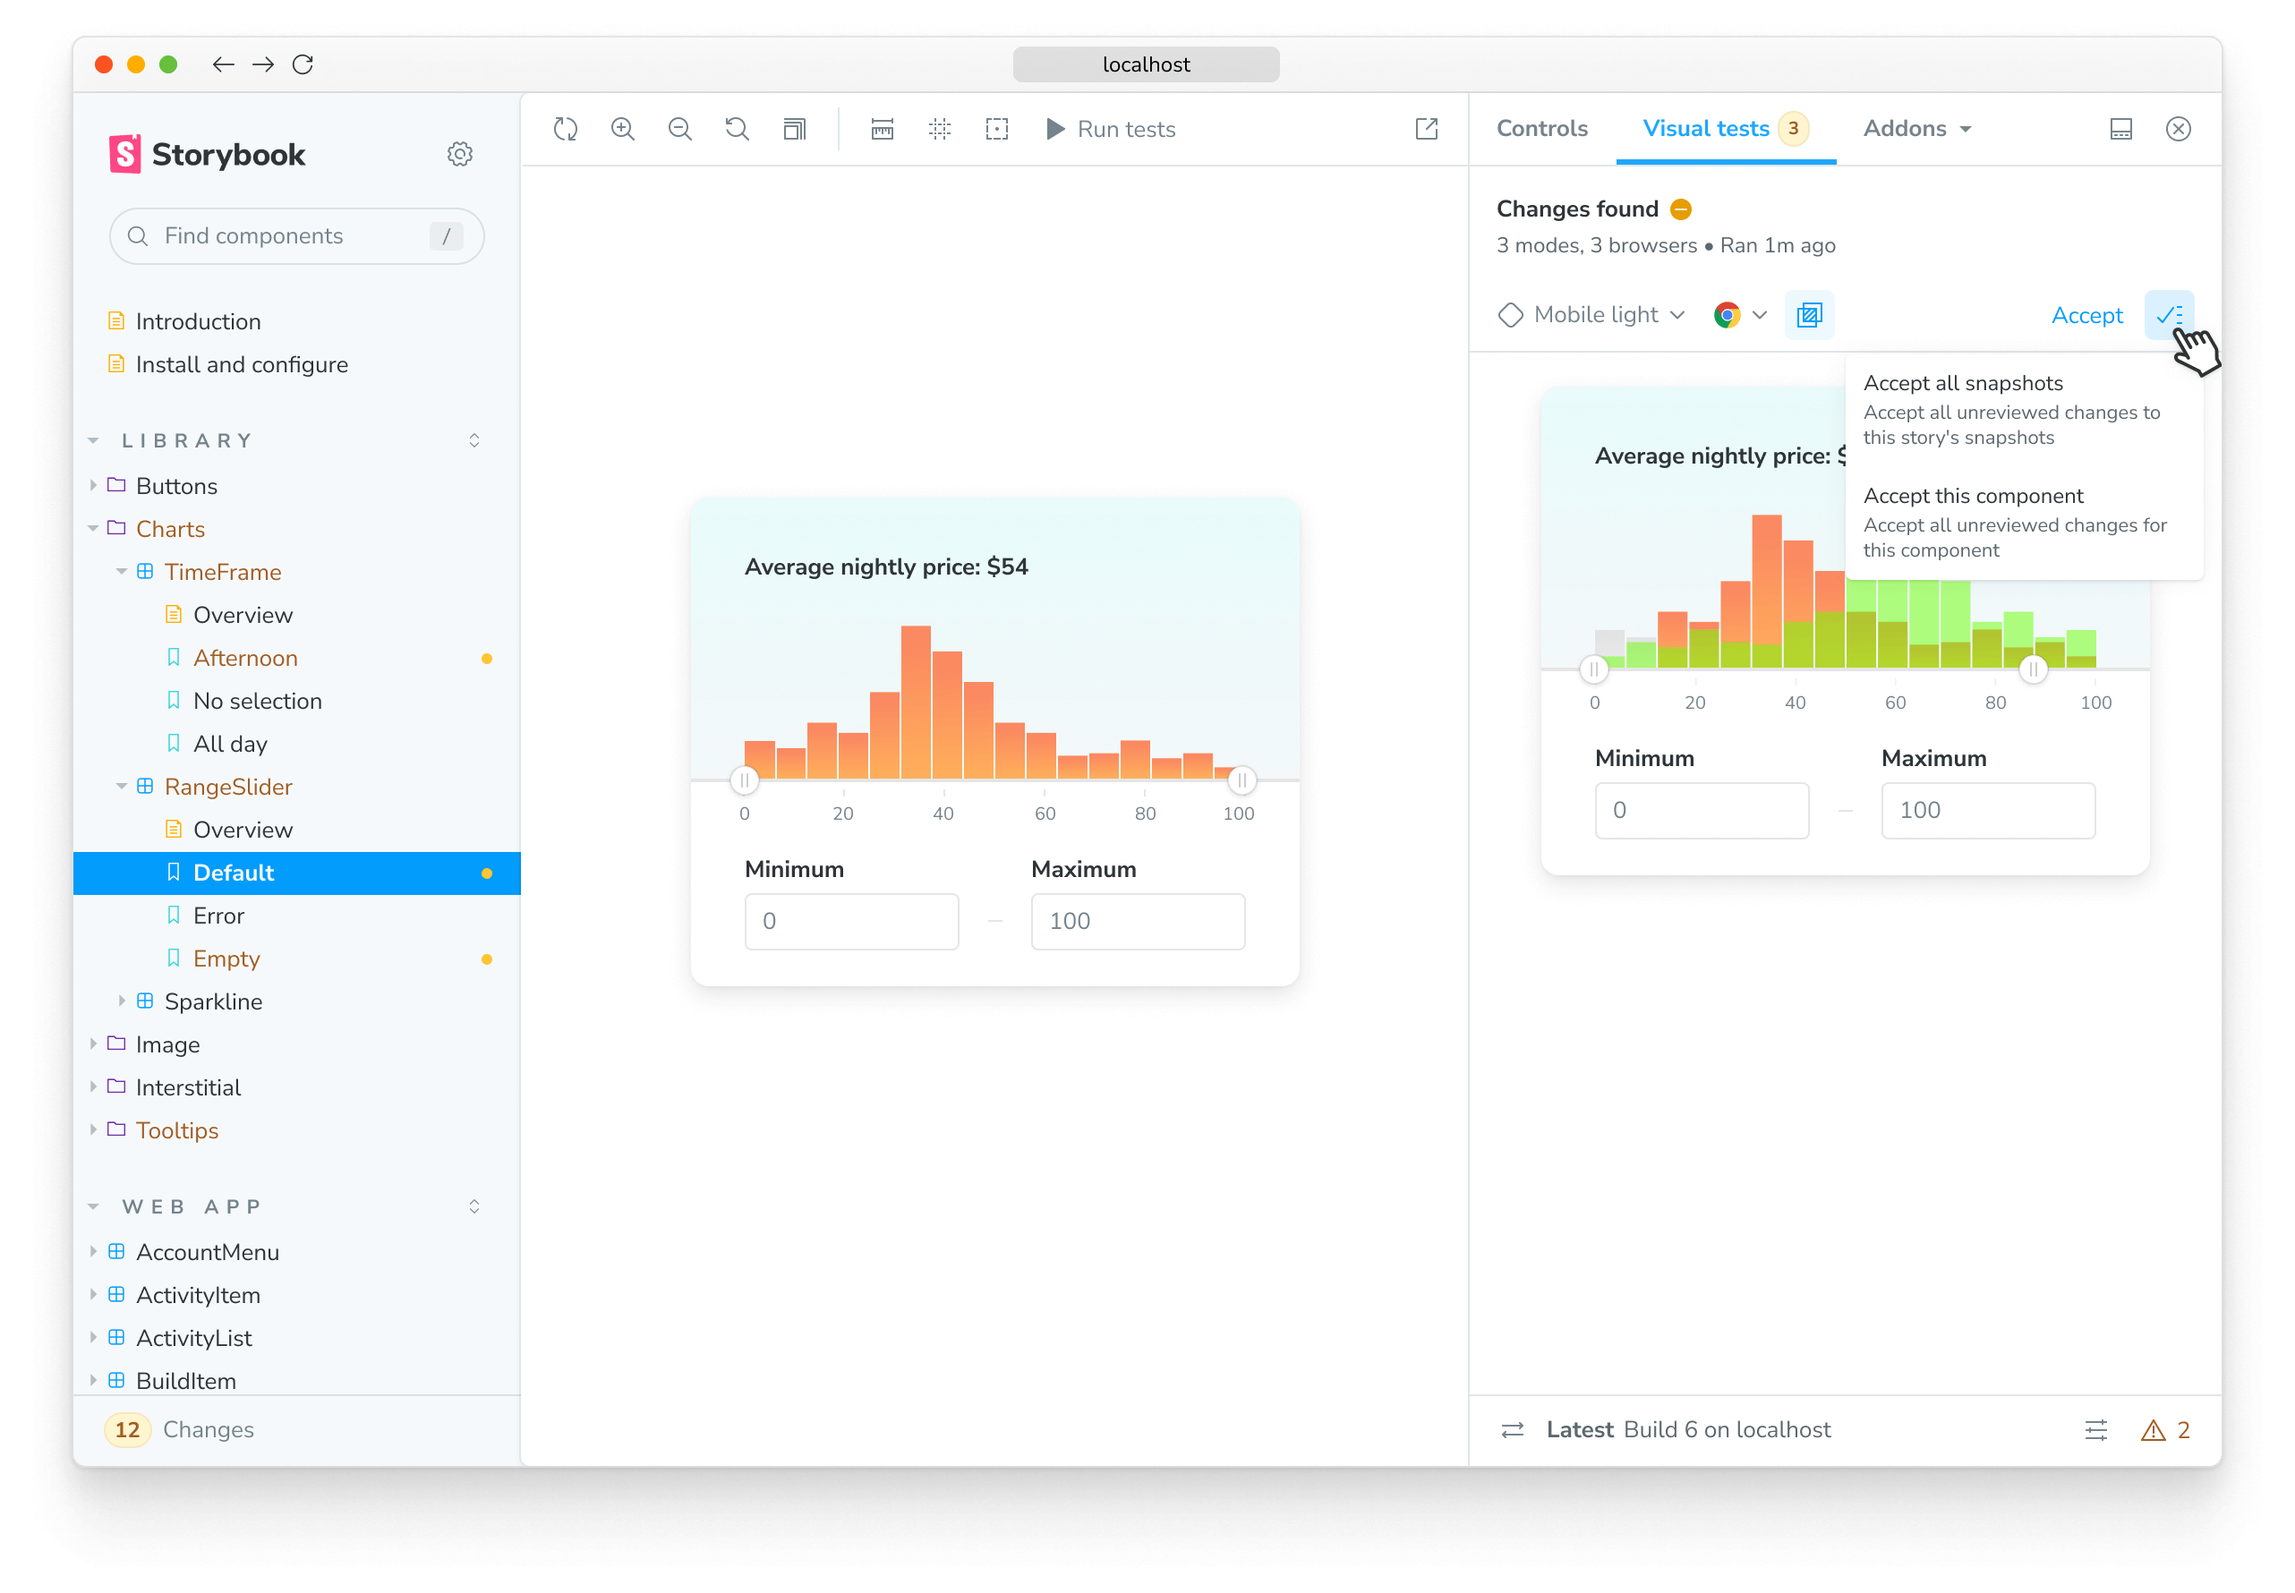
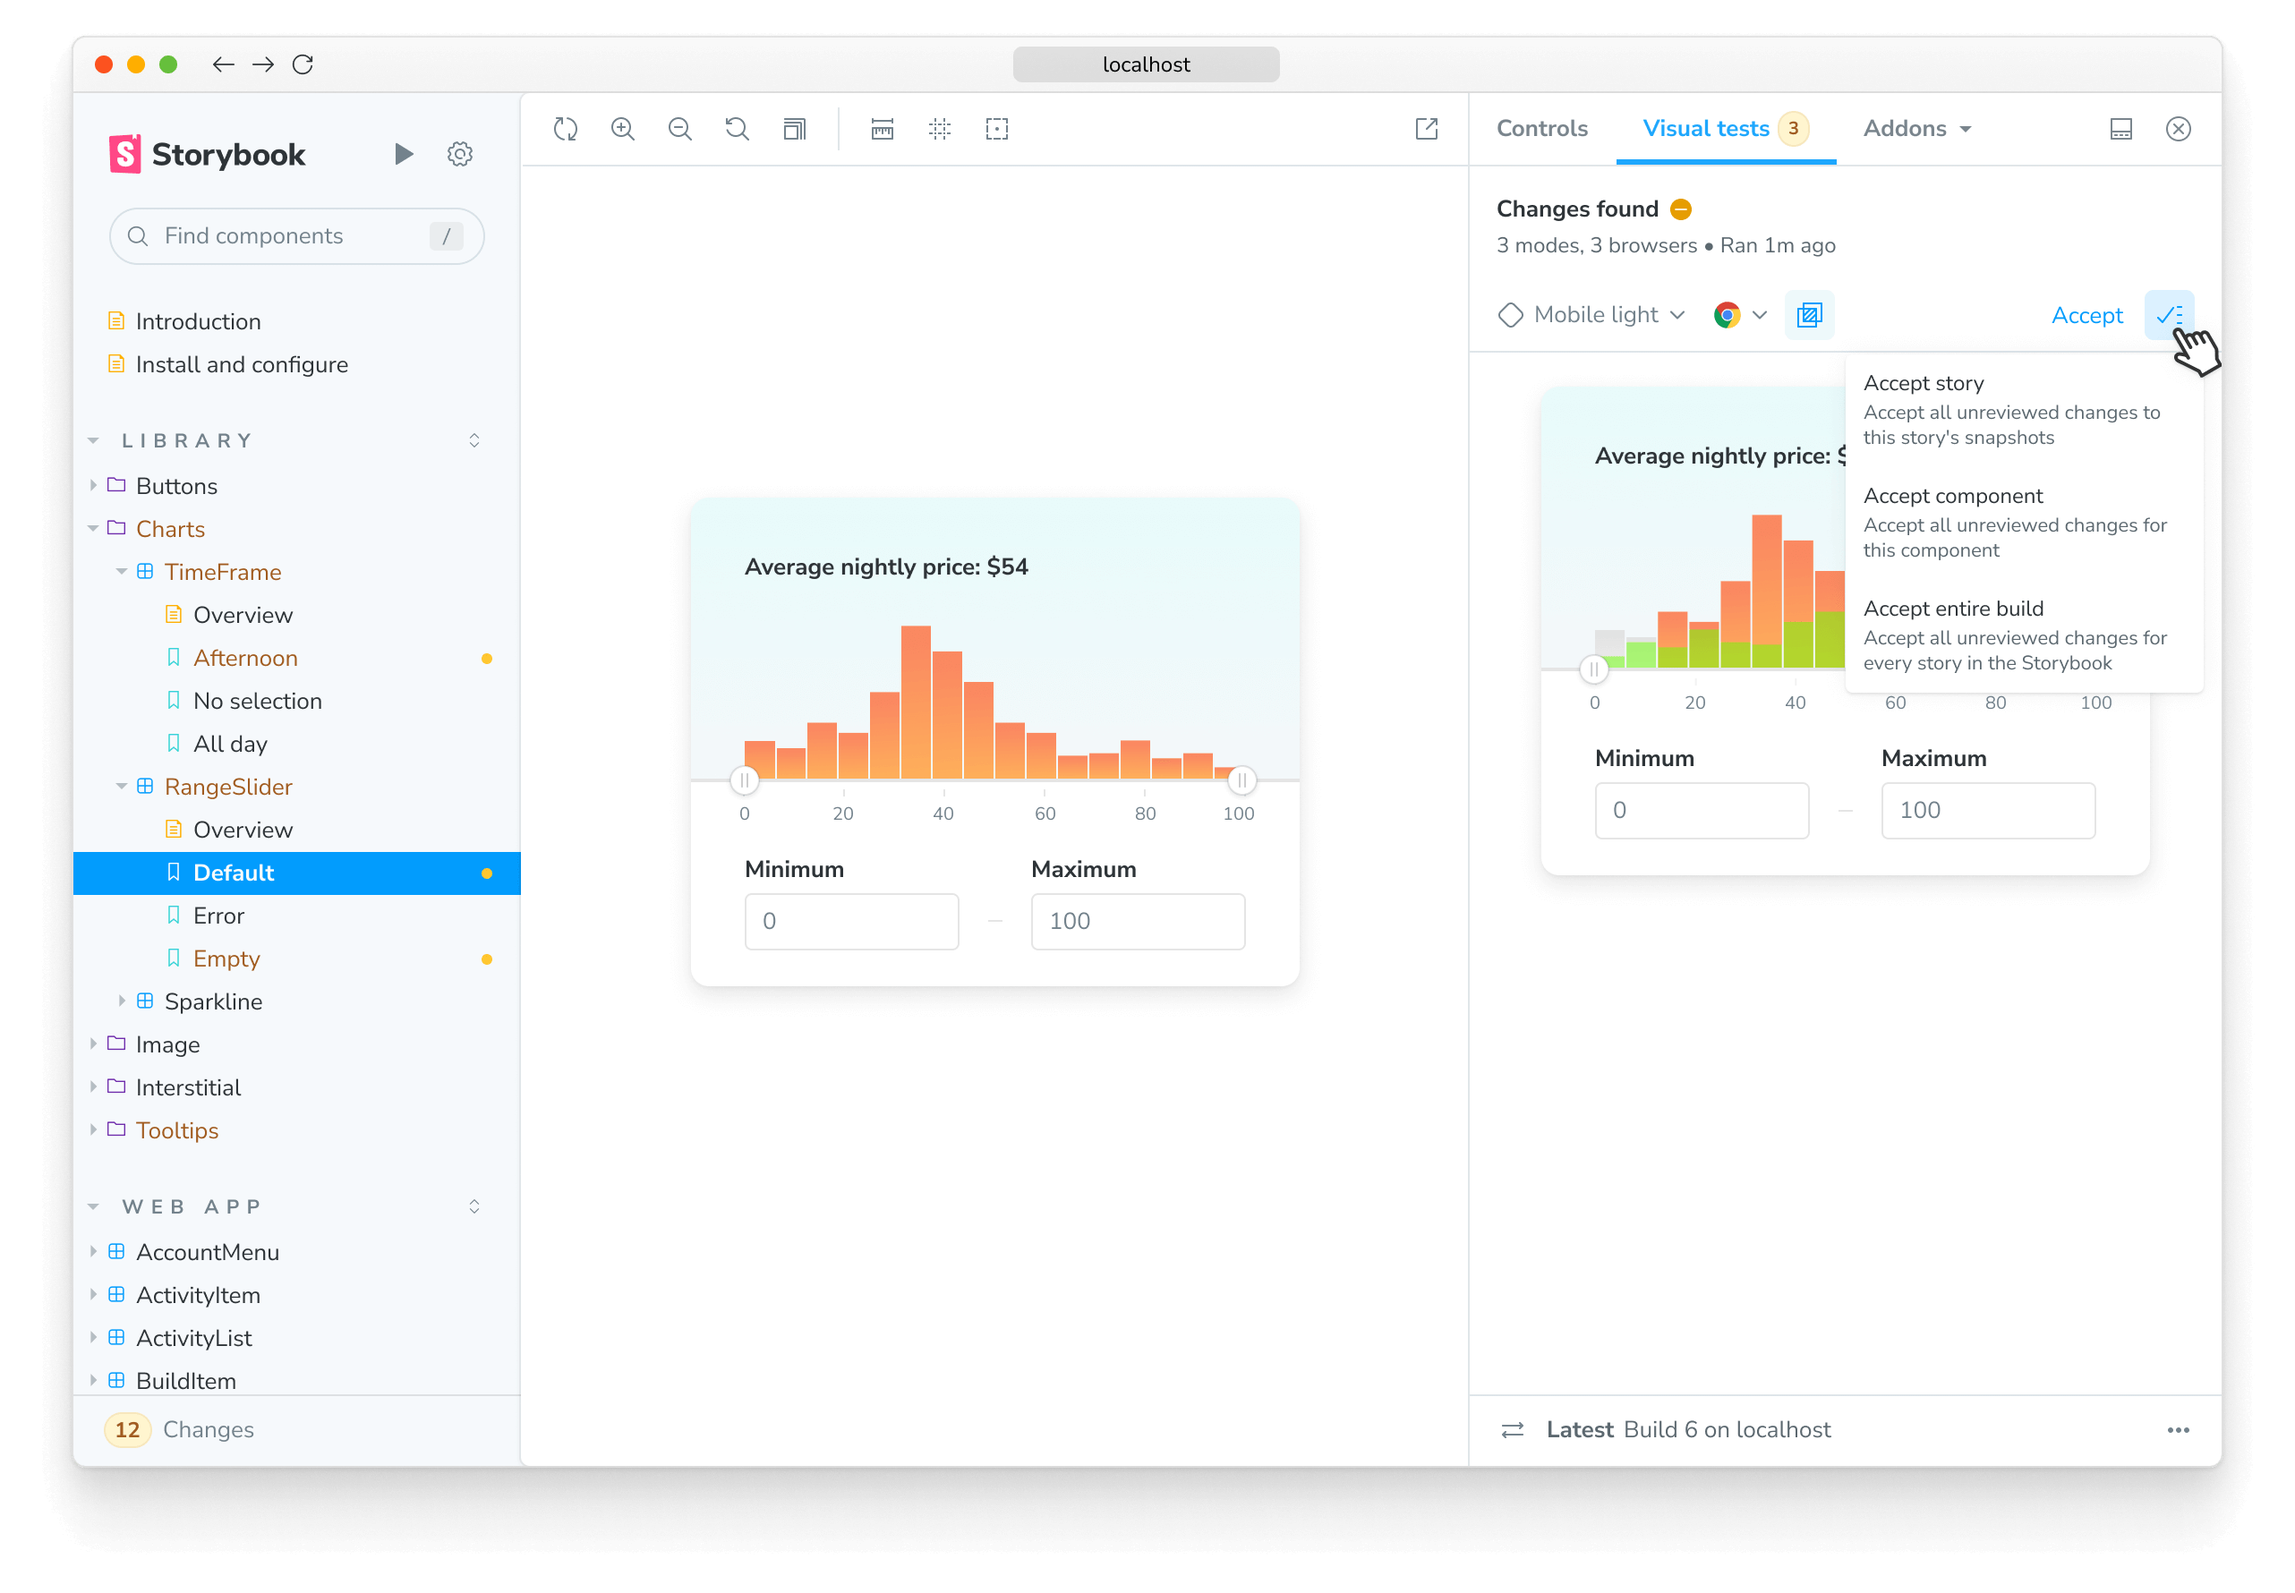
Troubleshooting section additions

Changed region(s): [[0.78, 0.309, 0.936, 0.4326], [0.8424, 0.2163, 0.8736, 0.2472], [0.468, 0.0618, 0.4992, 0.0927]]

diff --git a/src/content/notInNavigation/visual-testing-addon.md b/src/content/notInNavigation/visual-testing-addon.md
@@ -109,7 +109,7 @@ export default config;
 
 ## How to run visual tests
 
-Get started visual testing by introducing a change in one of your components; for example, change a background color or font size. Then save the file, and commit your local changes. Click the "Run tests" button in the toolbar to begin the process. This will:
+Get started visual testing by introducing a change in one of your components; for example, change a background color or font size. Then save the file, and commit your local changes. Click the "Play" button in the sidebar to begin the process. This will:
 
 1. Connect to Chromatic
 2. Start a local build, which will:
@@ -121,9 +121,21 @@ Get started visual testing by introducing a change in one of your components; fo
 
 ## Review changes
 
-To find out which changes were introduced in the latest build, the addon highlights the stories that require your attention. Cycle through them and review them. If the changes are intentional, click the "Accept" button to update the baseline with the latest changes and mark them as accepted in Chromatic. This will ensure that when you push the changes into your remote repository, they will be reconciled with builds deployed from [CI](ci) or the [CLI](cli).
+To find out which changes were introduced in the latest build, the addon highlights the stories that require your attention. Cycle through them and review them. If the changes are intentional, the addon allows you to accept individual snapshots, stories, or the entire build, updating the baseline with the latest changes and marking them as accepted in Chromatic. This will ensure that when you push the changes into your remote repository, they will be reconciled with builds deployed from [CI](ci) or the [CLI](cli).
 
 ![Confirm UI changes in Storybook](../../images/visual-tests-accept-all.png)
+
+If you accept a change, the addon provides an "Unaccept" button in the addon panel that allows you to revert it. This resets the status to "unreviewed," updates Storybook's sidebar, and syncs the change with Chromatic.
+
+![Revert UI changes in Storybook](../../images/visual-tests-unaccept.png)
+
+---
+
+#### What's the difference in testing with the addon vs. CI?
+
+Running tests with the Visual Testing addon shortens the feedback loop by providing a simple workflow to detect UI bugs during development. This means you don't have to wait until your CI environment finishes running, reducing the costs and computational power used to verify what's changed. Once you combine the addon with [TurboSnap](turbosnap)([see below](#turbosnap-support)), only stories with potential changes will be tested, decreasing the number of snapshots taken and the time it takes to run the tests.
+
+---
 
 ## Troubleshooting
 
@@ -147,5 +159,26 @@ This is a [known issue](https://github.com/storybookjs/storybook/issues/22431#is
   }
 }
 ```
+
+</details>
+
+<details>
+<summary>How does the addon impact on snapshot usage?</summary>
+
+Running tests with the addon enabled still counts towards your monthly snapshot usage, but they're likely to stay the same despite the number of builds you run. For customers who are subscribed to the early access program, the snapshots taken will not be billed until the end of the program. If you still see them listed in your bill or have any questions, contact us <a class="intercom-opensource-qualification-bot"><b>via in-app chat</b></a>.
+
+</details>
+
+<details>
+<summary id="turbosnap-support">Does the addon support TurboSnap?</summary>
+
+No. The Visual Testing addon is still in its early access stage. Support for TurboSnap will be added as part of a future release.
+
+</details>
+
+<details>
+<summary>Can I deny a change with the addon?</summary>
+
+No. Denying changes is only available when running builds from CI or the CLI. If you need to, you can revert changes by clicking the "Unaccept" button in the addon panel and re-running the tests to verify them.
 
 </details>
